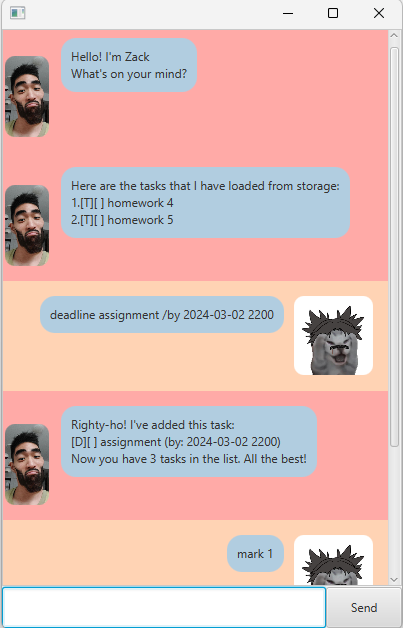
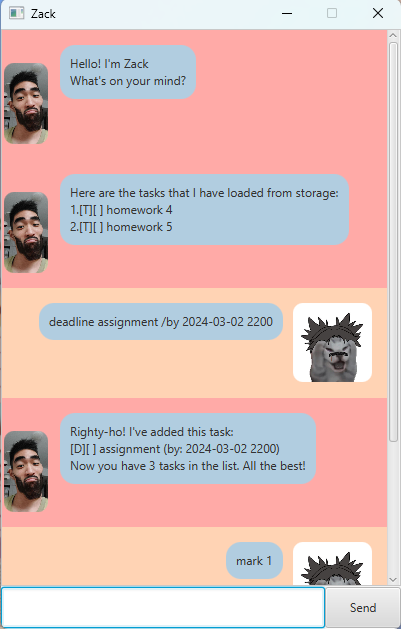
Make the application window unresizable

diff --git a/src/main/java/zack/Main.java b/src/main/java/zack/Main.java
@@ -23,6 +23,7 @@ public class Main extends Application {
             Scene scene = new Scene(ap);
             stage.setScene(scene);
             fxmlLoader.<MainWindow>getController().setZack(zack);
+            stage.setResizable(false);
             stage.setTitle("Zack");
             stage.show();
         } catch (IOException e) {
